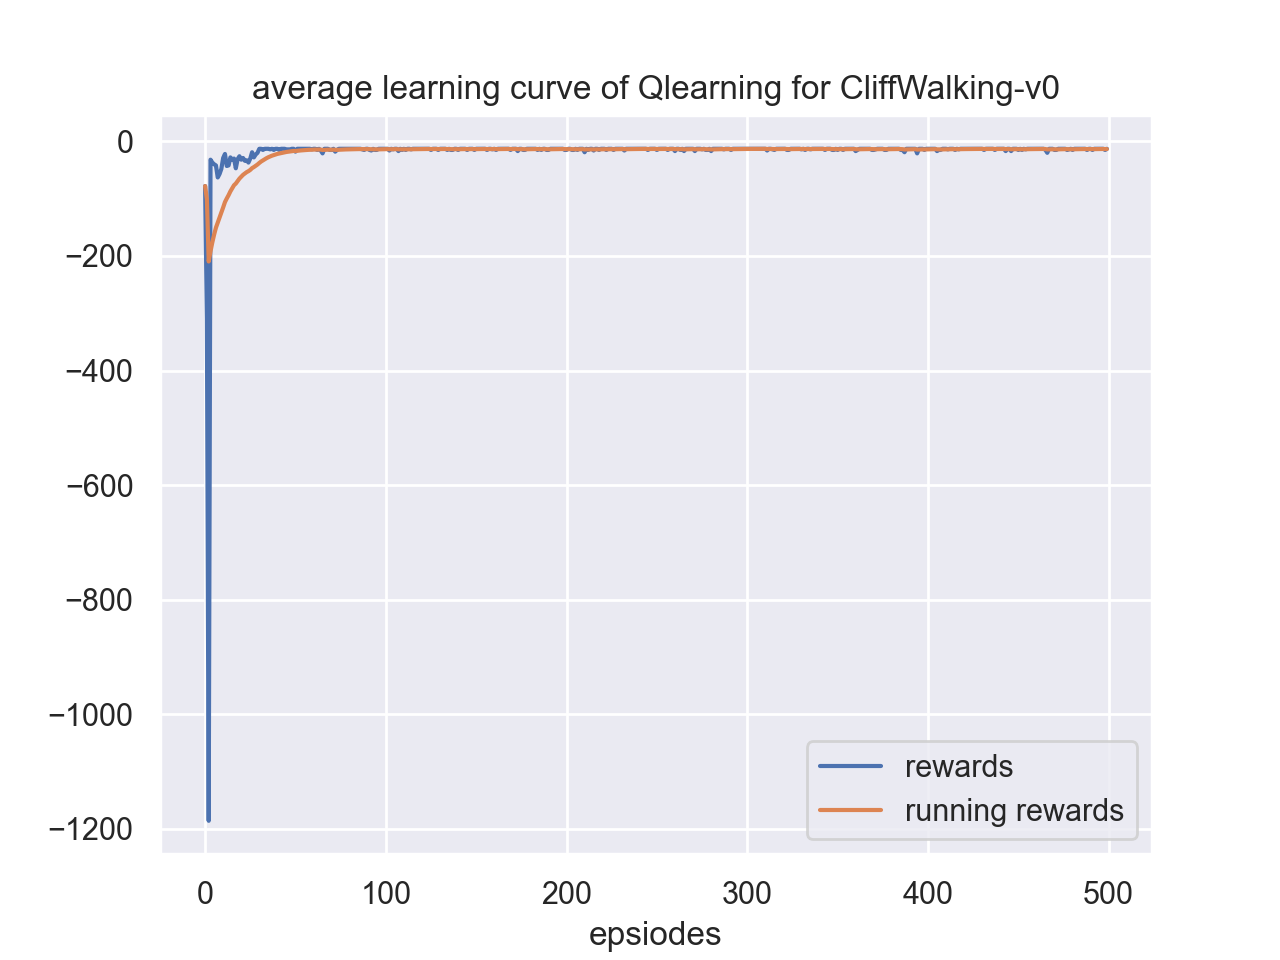
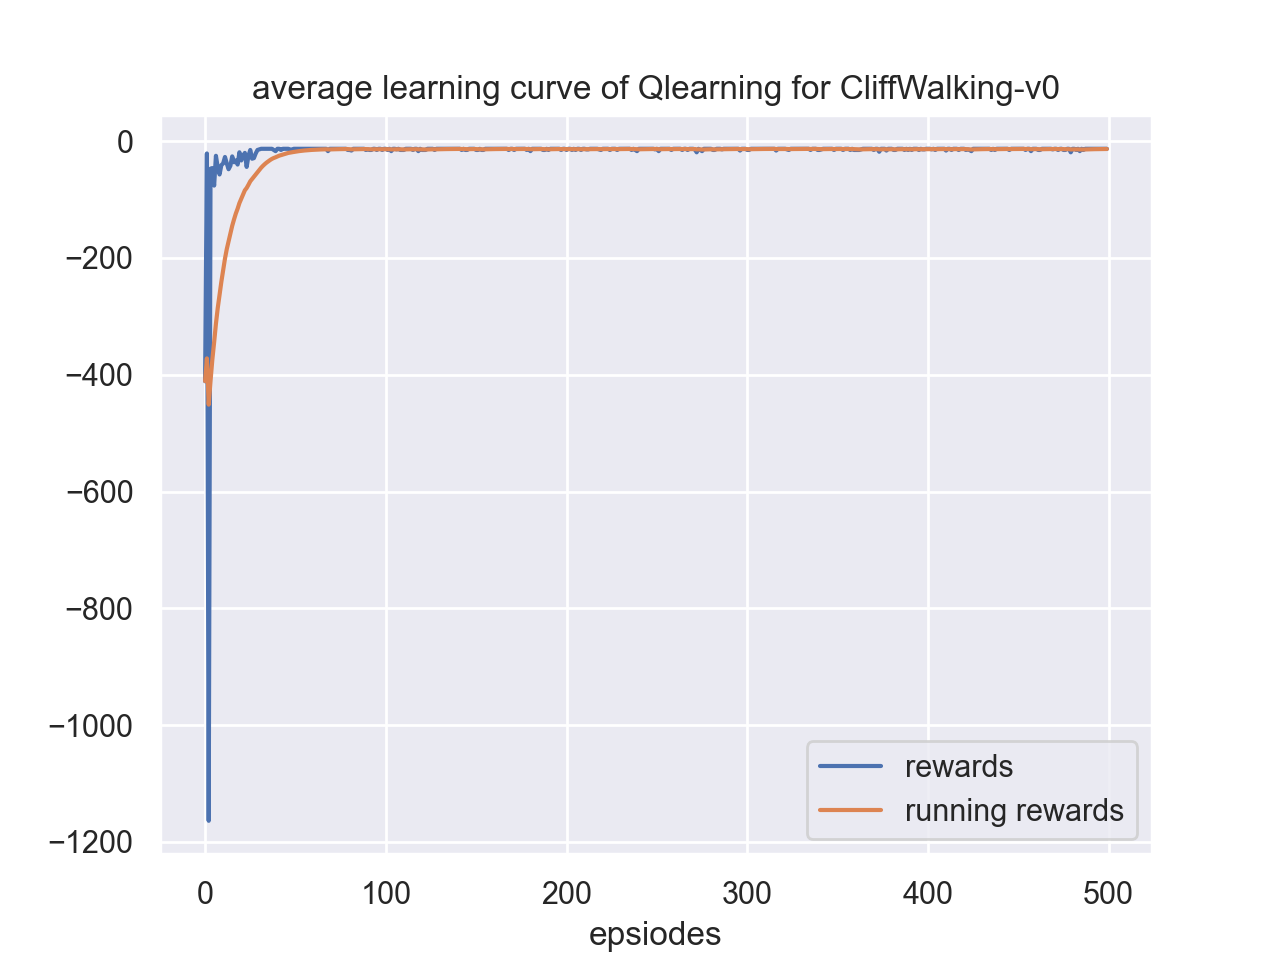
MDP的错需要用一生来纠正((

diff --git a/AICourse/Homework1_MDP/MDP.py b/AICourse/Homework1_MDP/MDP.py
@@ -67,7 +67,7 @@ class BaseTable:
             for action_dire in range(3):
                 next_dot = tuple(np.array(dot) + self.directions[(qdire+action_dire-1)%4])
                 # hit a wall
-                if not self.in_boundary(next_dot) or np.isnan(self.table[next_dot]):
+                if self.table[dot] != 0 or not self.in_boundary(next_dot) or np.isnan(self.table[next_dot]):
                     next_dot = dot
                 sum += self.action_dire_ratio[action_dire] * (
                     self.vtable[next_dot] * self.gamma +\
